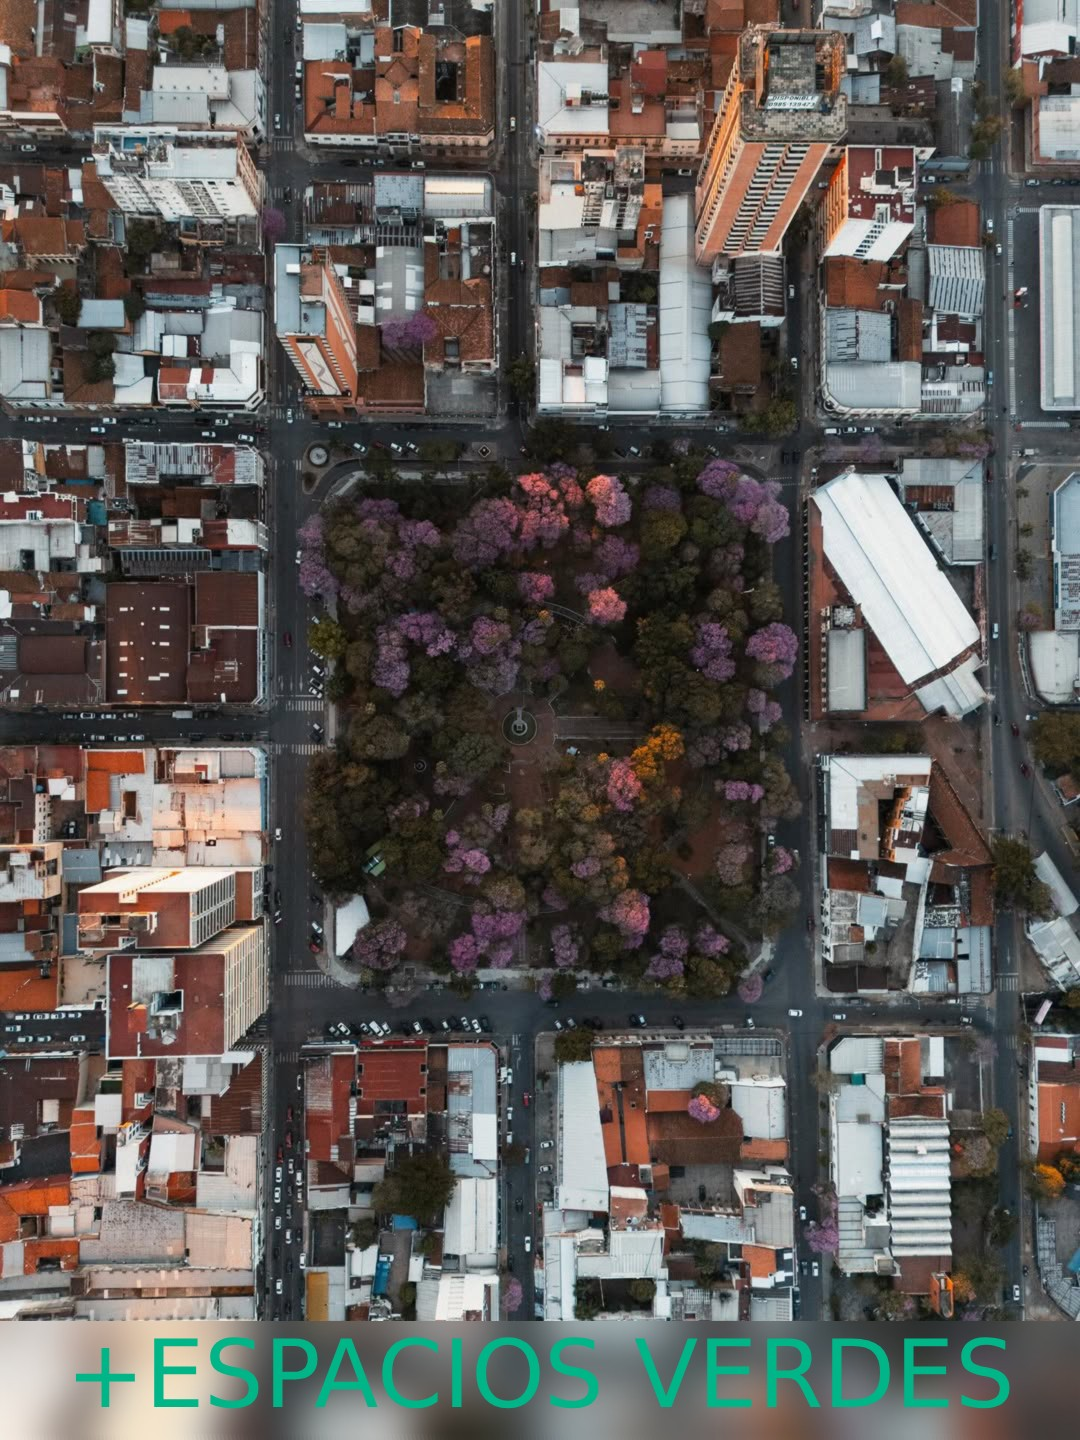
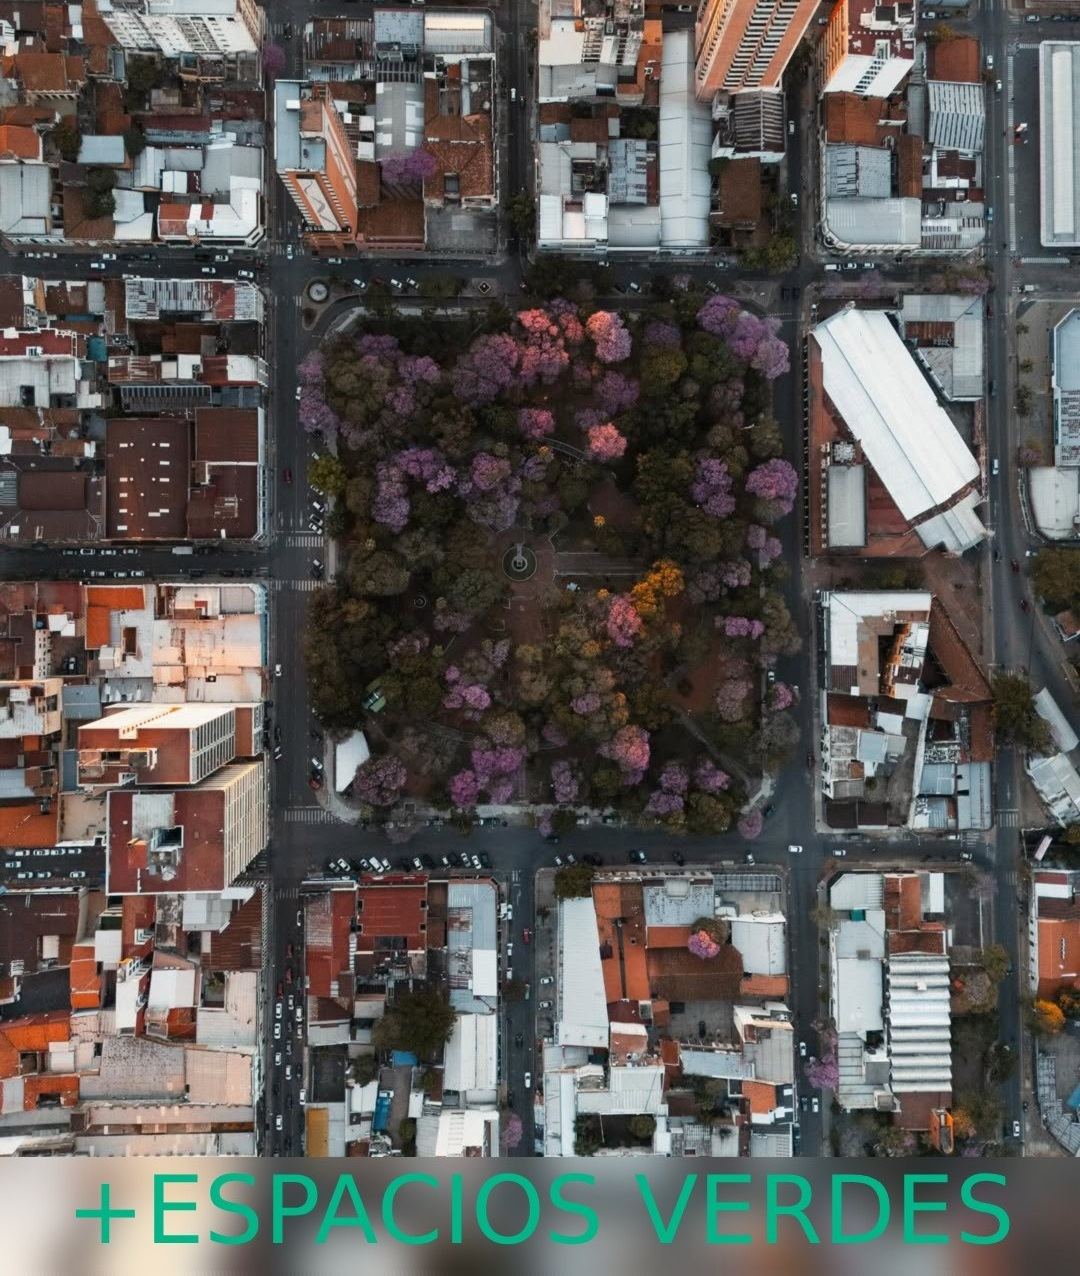
Imagenes

diff --git a/README.md b/README.md
@@ -23,6 +23,9 @@ Genera o Edita un Issue o PullRequest y el bot lo Publicara.
 Tambien se puede subir una entrada a traves de los bots de WhatsApp, Telegram, Matrix y Demas.
 
 ## Requisitos
+## Caratula
+La Primera imagen sera usada como caratula, debe ser de 250px de ancho x 300px de Alto para que quede bien.
+
 ### Fuente Obligatoria
 Todo aporte debe incluir fuenteS verificables como: artículos de prensa, documento oficial, registro público, Wikipedia con referencias, etc.
 No se aceptan rumores, mensajes de chat no verificables ni opiniones personales queriendose pasar como hechos.
